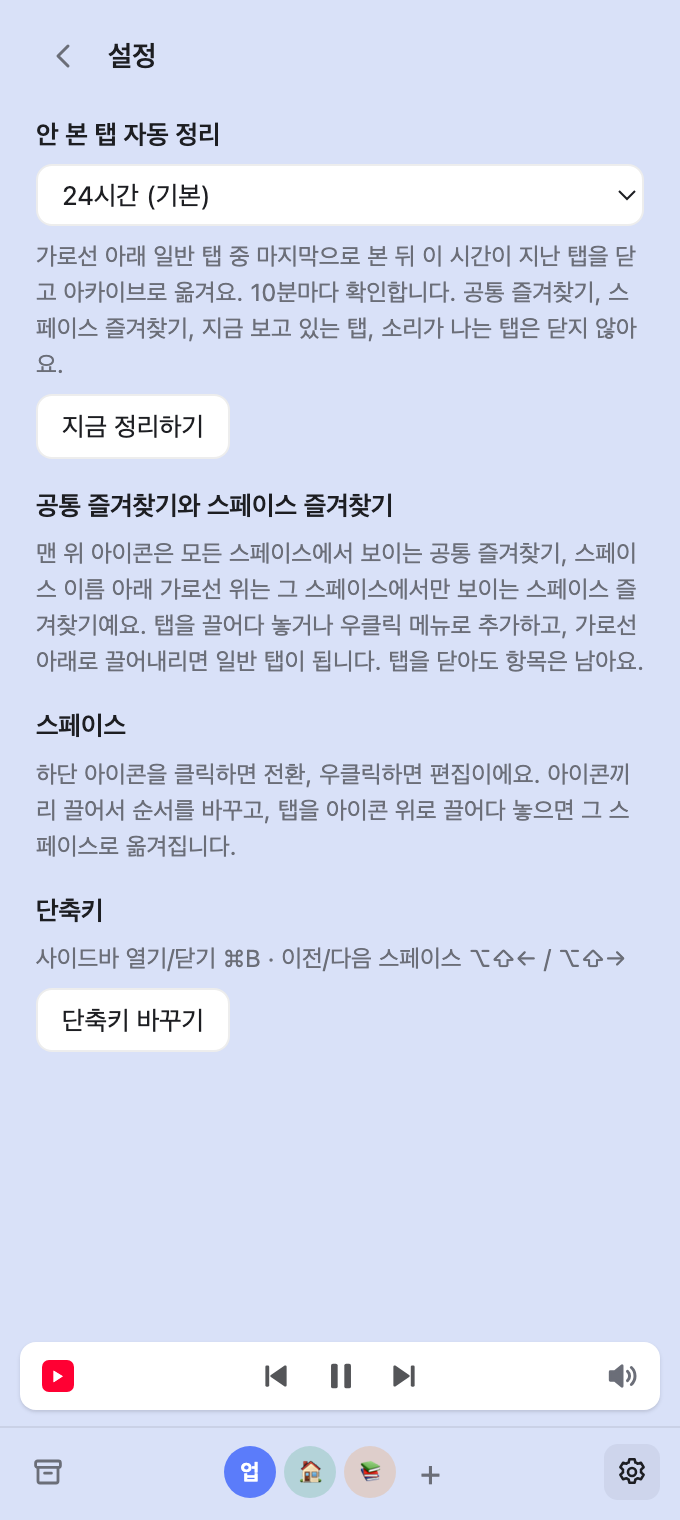
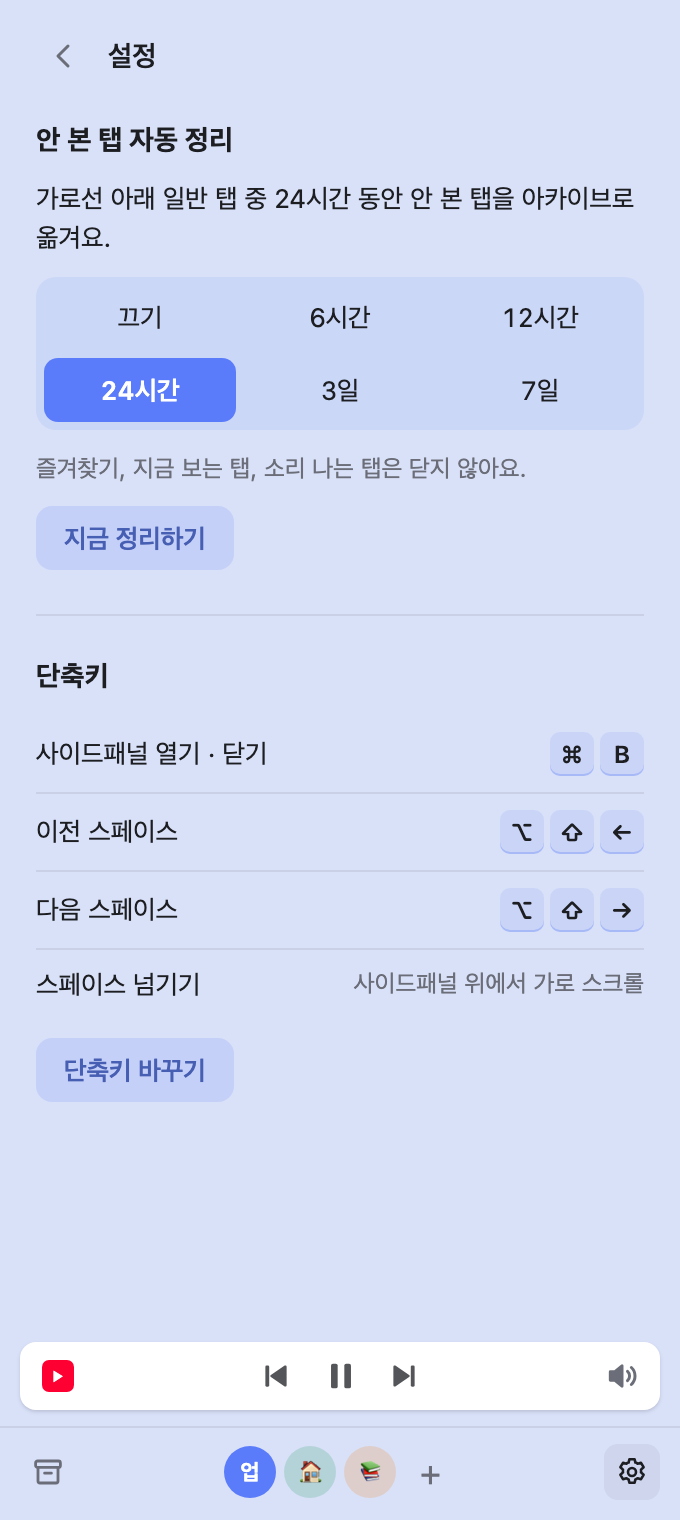
Settings: keep auto-archive and shortcuts only, tinted controls
- Archive time as a segmented control instead of a white select
- Shortcuts list reads the actual keys from chrome.commands
- Buttons use the space color instead of white

diff --git a/sidepanel.js b/sidepanel.js
@@ -739,41 +739,54 @@ async function sweepNow() {
   render();
 }
 
+// 크롬에 실제로 지정된 단축키 (chrome://extensions/shortcuts 에서 바꾼 값)
+function loadCommands() {
+  chrome.commands?.getAll?.().then((list) => { S.commands = list; render(); }).catch(() => {});
+}
+const SHORTCUT_ROWS = [
+  ['toggle-panel', '사이드패널 열기 · 닫기'],
+  ['prev-space', '이전 스페이스'],
+  ['next-space', '다음 스페이스'],
+];
+const HOUR_LABELS = { 0: '끄기', 6: '6시간', 12: '12시간', 24: '24시간', 72: '3일', 168: '7일' };
+
 function renderSettings() {
+  if (!S.commands) loadCommands();
+  const hours = Number(S.settings.archiveHours) || 0;
+  const keyOf = (name) => S.commands?.find((c) => c.name === name)?.shortcut || '';
+  const keys = (str) => str
+    // macOS 는 "⌥⇧→" 처럼 기호가 붙어서, Windows 는 "Ctrl+B" 처럼 + 로 이어서 온다
+    ? h('span', { class: 'keys' }, (str.includes('+') ? str.split('+') : [...str]).map((k) => h('kbd', {}, k)))
+    : h('span', { class: 'nokey' }, '지정 안 됨');
+
   return h('main', { class: 'main' },
     h('header', { class: 'space-head' },
       h('button', { class: 'icon-btn', title: '탭 목록으로', onclick: () => { S.view = 'tabs'; render(); } }, icon('back')),
       h('span', { class: 'space-name' }, '설정'),
     ),
     h('div', { class: 'settings' },
-      h('div', { class: 'field' },
-        h('label', { for: 'set-hours' }, '안 본 탭 자동 정리'),
-        h('select', {
-          id: 'set-hours',
-          onchange: (e) => send('setSettings', { patch: { archiveHours: Number(e.target.value) } }),
-        }, HOURS.map(([v, label]) => {
-          const o = h('option', { value: String(v) }, label);
-          if (Number(S.settings.archiveHours) === v) o.selected = true;
-          return o;
-        })),
-        h('p', { class: 'hint' }, '가로선 아래 일반 탭 중 마지막으로 본 뒤 이 시간이 지난 탭을 닫고 아카이브로 옮겨요. 10분마다 확인합니다. 공통 즐겨찾기, 스페이스 즐겨찾기, 지금 보고 있는 탭, 소리가 나는 탭은 닫지 않아요.'),
+      h('section', { class: 'set-group' },
+        h('h3', { class: 'set-title' }, '안 본 탭 자동 정리'),
+        h('p', { class: 'set-desc' },
+          hours ? `가로선 아래 일반 탭 중 ${HOUR_LABELS[hours] || hours + '시간'} 동안 안 본 탭을 아카이브로 옮겨요.` : '자동 정리가 꺼져 있어요.'),
+        h('div', { class: 'seg-row', role: 'radiogroup', 'aria-label': '정리 기준 시간' },
+          HOURS.map(([v]) => h('button', {
+            class: 'seg-opt' + (hours === v ? ' on' : ''), role: 'radio', 'aria-checked': String(hours === v),
+            onclick: () => { S.sweepMsg = null; send('setSettings', { patch: { archiveHours: v } }); },
+          }, HOUR_LABELS[v]))),
+        h('p', { class: 'set-note' }, '즐겨찾기, 지금 보는 탭, 소리 나는 탭은 닫지 않아요.'),
         h('div', { class: 'sweep-row' },
-          h('button', { class: 'btn', onclick: sweepNow }, '지금 정리하기'),
-          S.sweepMsg ? h('span', { class: 'hint' }, S.sweepMsg) : null,
+          h('button', { class: 'btn-tint', onclick: sweepNow, disabled: !hours }, '지금 정리하기'),
+          S.sweepMsg ? h('span', { class: 'set-note' }, S.sweepMsg) : null,
         ),
       ),
-      h('div', { class: 'field' },
-        h('label', {}, '공통 즐겨찾기와 스페이스 즐겨찾기'),
-        h('p', { class: 'hint' }, '맨 위 아이콘은 모든 스페이스에서 보이는 공통 즐겨찾기, 스페이스 이름 아래 가로선 위는 그 스페이스에서만 보이는 스페이스 즐겨찾기예요. 탭을 끌어다 놓거나 우클릭 메뉴로 추가하고, 가로선 아래로 끌어내리면 일반 탭이 됩니다. 탭을 닫아도 항목은 남아요.'),
-      ),
-      h('div', { class: 'field' },
-        h('label', {}, '스페이스'),
-        h('p', { class: 'hint' }, '하단 아이콘을 클릭하면 전환, 우클릭하면 편집이에요. 아이콘끼리 끌어서 순서를 바꾸고, 탭을 아이콘 위로 끌어다 놓으면 그 스페이스로 옮겨집니다.'),
-      ),
-      h('div', { class: 'field' },
-        h('label', {}, '단축키'),
-        h('p', { class: 'hint' }, '사이드바 열기/닫기 ⌘B · 이전/다음 스페이스 ⌥⇧← / ⌥⇧→'),
-        h('button', { class: 'btn', onclick: () => chrome.tabs.create({ url: 'chrome://extensions/shortcuts' }) }, '단축키 바꾸기'),
+      h('section', { class: 'set-group' },
+        h('h3', { class: 'set-title' }, '단축키'),
+        h('ul', { class: 'key-list' },
+          SHORTCUT_ROWS.map(([name, label]) => h('li', {}, h('span', {}, label), keys(keyOf(name)))),
+          h('li', {}, h('span', {}, '스페이스 넘기기'), h('span', { class: 'nokey' }, '사이드패널 위에서 가로 스크롤')),
+        ),
+        h('button', { class: 'btn-tint', onclick: () => chrome.tabs.create({ url: 'chrome://extensions/shortcuts' }) }, '단축키 바꾸기'),
       ),
     ),
   );

diff --git a/sidepanel.css b/sidepanel.css
@@ -205,7 +205,44 @@ body.dragging-tab .pins.fav-empty {
 .foot-row { display: flex; justify-content: flex-end; padding: 8px 4px 0; }
 
 /* 설정 */
-.settings { display: flex; flex-direction: column; gap: 14px; padding: 4px 8px; }
+.settings { display: flex; flex-direction: column; gap: 22px; padding: 6px 8px; }
+.set-group { display: flex; flex-direction: column; gap: 10px; }
+.set-group + .set-group { padding-top: 20px; border-top: 1px solid var(--line); }
+.set-title { margin: 0; font-size: 14px; font-weight: 700; }
+.set-desc { margin: 0; font-size: 13px; line-height: 1.5; color: var(--ink); }
+.set-note { margin: 0; font-size: 12px; line-height: 1.5; color: var(--muted); }
+.seg-row {
+  display: grid; grid-template-columns: repeat(3, 1fr); gap: 4px; padding: 4px; border-radius: 10px;
+  background: color-mix(in oklab, var(--space) 10%, transparent);
+}
+.seg-opt {
+  border: 0; border-radius: 7px; padding: 7px 0; background: transparent; cursor: pointer;
+  font-size: 13px; color: var(--ink); font-variant-numeric: tabular-nums;
+}
+.seg-opt:hover { background: color-mix(in oklab, var(--space) 14%, transparent); }
+.seg-opt.on { background: var(--space); color: #fff; font-weight: 600; }
+.btn-tint {
+  align-self: flex-start; border: 0; border-radius: 8px; padding: 7px 14px; cursor: pointer;
+  font-size: 13px; font-weight: 600;
+  background: color-mix(in oklab, var(--space) 16%, transparent);
+  color: color-mix(in oklab, var(--space) 70%, var(--ink));
+}
+.btn-tint:hover { background: color-mix(in oklab, var(--space) 24%, transparent); }
+.btn-tint:disabled { opacity: .45; cursor: default; }
+.key-list { list-style: none; margin: 0; padding: 0; display: flex; flex-direction: column; }
+.key-list li {
+  display: flex; align-items: center; justify-content: space-between; gap: 10px;
+  padding: 8px 0; font-size: 13px; border-bottom: 1px solid var(--line);
+}
+.key-list li:last-child { border-bottom: 0; }
+.keys { display: flex; gap: 3px; flex: none; }
+.keys kbd {
+  min-width: 22px; height: 22px; padding: 0 5px; display: grid; place-items: center; border-radius: 5px;
+  font: 600 12px/1 -apple-system, BlinkMacSystemFont, system-ui, sans-serif; color: var(--ink);
+  background: color-mix(in oklab, var(--space) 12%, transparent);
+  box-shadow: inset 0 -1px 0 color-mix(in oklab, var(--space) 30%, transparent);
+}
+.nokey { font-size: 12px; color: var(--muted); text-align: right; }
 .field { display: flex; flex-direction: column; gap: 6px; }
 .field label { font-weight: 600; }
 .field select {

diff --git a/docs/capture/mock-chrome.js b/docs/capture/mock-chrome.js
@@ -104,6 +104,13 @@
       onAttached: ev(), onDetached: ev(), onReplaced: ev(),
     },
     permissions: { request: async () => true },
+    commands: {
+      getAll: async () => [
+        { name: 'toggle-panel', shortcut: '⌘B' },
+        { name: 'prev-space', shortcut: '⌥⇧←' },
+        { name: 'next-space', shortcut: '⌥⇧→' },
+      ],
+    },
     scripting: { executeScript: async () => [{ result: 'session' }] },
   };
 })();
